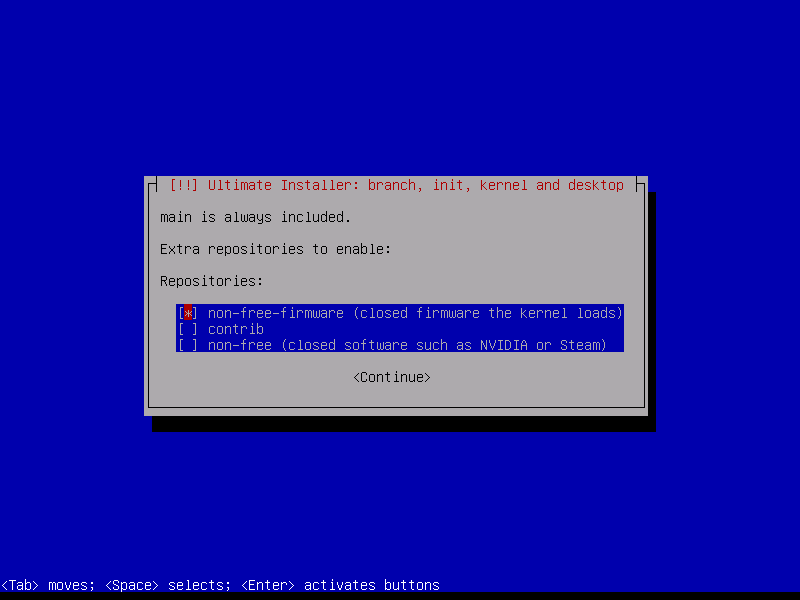
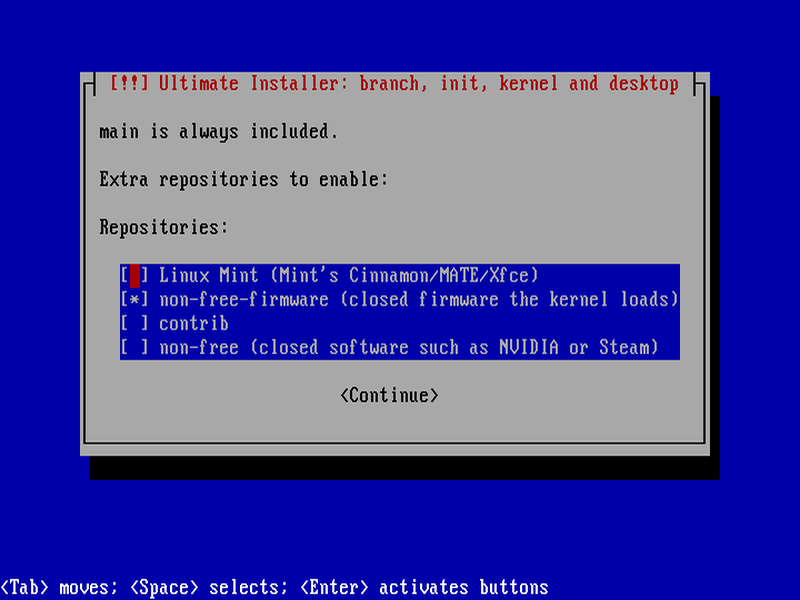
Linux Mint flavors (Cinnamon, MATE, Xfce) on stable; repositories screen always shown
The repositories screen is now shown on every path, also with linux-libre
(nothing ticked there). On stable it offers Linux Mint: ticking it brings the
screen back with every repository ticked, as LMDE has them, and the desktop
screen then offers only Mint's editions: Cinnamon (default), MATE or Xfce.

Mint's repository (LMDE 7 "gigi") is added as LMDE has it, plus the distro's
backports; the distro keeps its own base-files (os-release). Debian + systemd
+ Cinnamon installs mint-meta-cinnamon + mint-meta-core (LMDE as shipped).
MATE and Xfce rebuild Linux Mint 22.3's mint-meta-mate / mint-meta-xfce from
mint-meta-core, the distro's desktop and the Mint pieces LMDE has. Without
systemd: systemd pinned out, no mintupdate, mintreport or
debian-system-adjustments (its plymouth removes bootlogd), and Mint's firefox
(which needs the latter) is replaced by the distro's firefox-esr. The login
screen is Mint's slick-greeter.

Tested in QEMU (install, first boot, login, Mint tools): Debian+systemd with
Cinnamon and Xfce, Devuan+OpenRC with Cinnamon and MATE, Devuan+SysV with Xfce,
and Devuan+SysV+linux-libre+MATE without Mint.

diff --git a/README.md b/README.md
@@ -14,9 +14,11 @@ The screens Ultimate Installer adds to the stock installer:
 | ![Branch](screenshots/2-branch.png) | ![Init](screenshots/3-init.png) |
 | Branch: stable or testing | Init system |
 | ![Kernel](screenshots/4-kernel.png) | ![Repositories](screenshots/5-repos.png) |
-| Kernel, with a warning about hardware that needs closed firmware | Extra repositories (not with linux-libre) |
+| Kernel, with a warning about hardware that needs closed firmware | Extra repositories, and Linux Mint (stable only) |
 | ![Desktop](screenshots/6-desktop.png) | ![X server](screenshots/7-xserver.png) |
 | Desktop | X server, only for X11 desktops |
+| ![Linux Mint repositories](screenshots/8-mint-repos.png) | ![Linux Mint desktops](screenshots/9-mint-desktop.png) |
+| Linux Mint ticked: all repositories ticked, untick what you don't want | Desktop with Linux Mint: its three editions |
 
 ## What gets installed
 
@@ -33,12 +35,21 @@ The screens Ultimate Installer adds to the stock installer:
 - **Kernel**: linux-libre is fully free; "linux" is recommended so closed
   firmware (Wi-Fi, graphics…) works. The screen tells you if your hardware
   needs it.
-- **Repositories**: with linux-libre, `main` only. With "linux", `main` plus
-  `non-free-firmware`, `contrib` and `non-free` to choose from: on stable only
-  `non-free-firmware` comes ticked; on testing all three do (untick what you
-  don't want).
+- **Repositories**: `main` plus `non-free-firmware`, `contrib` and `non-free`
+  to choose from, with any kernel. Ticked by default: nothing with
+  linux-libre; `non-free-firmware` on stable; all three on testing (untick
+  what you don't want).
+- **Linux Mint** (stable only, on the same screen): adds Linux Mint's
+  repository and Mint's edition of the desktop to the distro you picked
+  (Debian, Devuan or Genuen). Like LMDE, it uses all repositories: the screen
+  comes back with all of them ticked, and you can untick any. The distro keeps
+  its name (os-release) and its init; Mint never brings systemd into a system
+  without it. With systemd (Debian) and Cinnamon you get LMDE as Mint ships
+  it; without systemd, Mint's Update Manager and System Reports are left out
+  (they need systemd) and Firefox ESR comes from the distro.
 - **Desktop**: MATE (Default), Xfce, Cinnamon, GNOME, GNOME Flashback,
-  KDE Plasma, LXDE, LXQt or none.
+  KDE Plasma, LXDE, LXQt or none. With Linux Mint: Cinnamon (Default), MATE or
+  Xfce, Mint's three editions.
 - **X server**: for X11 desktops, X11 (Xorg, Default) or
   [XLibre](https://github.com/X11Libre/xserver). Plasma and GNOME use Wayland.
 - One kernel in the installed system; closed firmware can be added or removed
@@ -61,6 +72,8 @@ Ultimate Installer only puts together the work of these projects:
 - [Devuan](https://devuan.org) — Debian without systemd, and its installer
 - [Debian](https://www.debian.org) — the base of everything, and debian-installer
 - [Debian Libre](https://libre.debian.net) — the idea of Debian without non-free
+- [Linux Mint](https://linuxmint.com) — LMDE, its repository and its
+  Cinnamon, MATE and Xfce editions
 - [XLibre](https://github.com/X11Libre/xserver) and its Debian packages,
   [xlibre-debian](https://xlibre-debian.github.io) (NexusSfan)
 - [GNU Linux-libre / FSFLA freesh](https://www.fsfla.org/ikiwiki/selibre/linux-libre/freesh)
